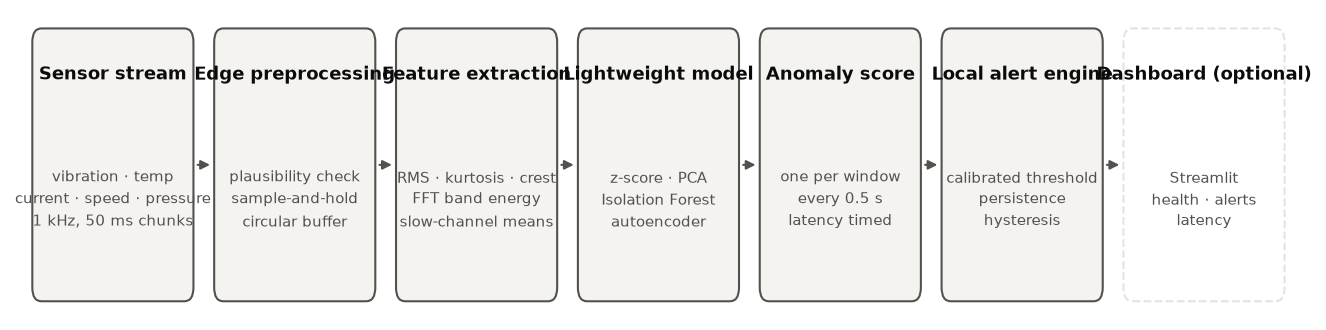
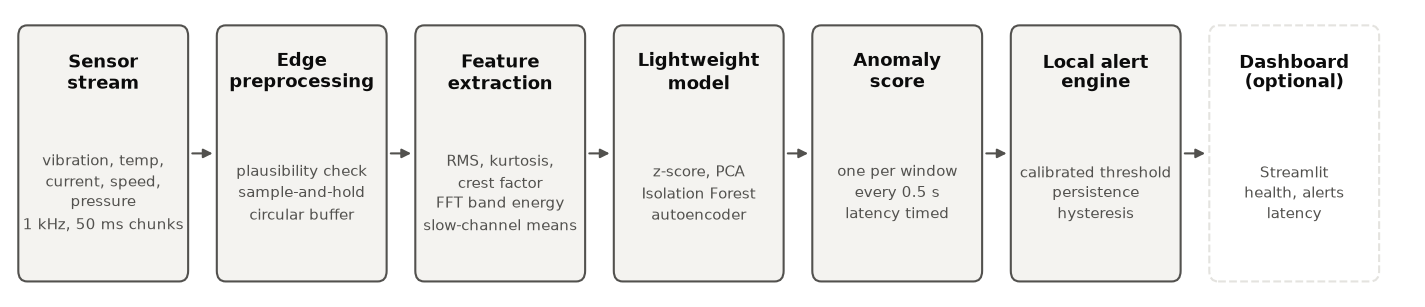
feat: show false alarms in sampling-rate figure and fix figure layouts

Changed region(s): [[0.0, 0.0586, 0.9894, 0.9381], [0.8658, 0.5277, 0.9585, 0.7329]]

diff --git a/scripts/make_figures.py b/scripts/make_figures.py
@@ -23,7 +23,7 @@ sys.path.insert(0, str(Path(__file__).resolve().parents[1]))
 
 from src.benchmarking import simulated_track as st  # noqa: E402
 from src.config import ROOT, load_config  # noqa: E402
-from src.data.simulator import CHANNELS, FaultEvent, simulate  # noqa: E402
+from src.data.simulator import FaultEvent, simulate  # noqa: E402
 
 ASSETS = ROOT / "assets"
 RESULTS = ROOT / "results"
@@ -291,27 +291,36 @@ def fig_tradeoff(bench):
 # ----------------------------------------------------------------------------- sampling rate
 def fig_sampling(sweep):
     rates = [str(r) for r in sweep["rates_hz"]]
-    fig, (a1, a2) = plt.subplots(1, 2, figsize=(11, 3.4))
+    fig, (a1, a2, a3) = plt.subplots(1, 3, figsize=(12, 3.4))
     for name, color in FAMILY.items():
-        rec = [sweep["results"][r][name]["event_recall"] for r in rates]
-        a1.plot(rates, rec, "-o", color=color, lw=2, ms=6, label=LABEL[name])
-    a1.set(title="Event recall vs ADC sampling rate", xlabel="sampling rate [Hz]",
-           ylabel="event recall", ylim=(0, 1.05))
+        res = [sweep["results"][r][name] for r in rates]
+        a1.plot(rates, [r["event_recall"] for r in res], "-o", color=color, lw=2, ms=6,
+                label=LABEL[name])
+        # Z-score and PCA can share values: draw z-score dashed on top so both stay visible.
+        a2.plot(rates, [r["false_alarms"] for r in res], "--o" if name == "zscore" else "-o",
+                color=color, lw=2, ms=6 if name != "zscore" else 4, zorder=3 if name == "zscore" else 2)
+    a1.set(title="Faults detected (recall)", xlabel="sampling rate [Hz]", ylabel="event recall",
+           ylim=(0, 1.05))
     a1.legend(fontsize=7.5, loc="lower right")
+    a2.set(title="False alarms, 5 test runs", xlabel="sampling rate [Hz]", ylabel="count")
+    a2.set_ylim(bottom=0)
     feat = [sweep["results"][r]["pca"]["feature_latency"]["p50_us"] for r in rates]
     ingest = [sweep["results"][r]["pca"]["ingest_ns_per_sample"] * int(r) / 1e3 for r in rates]
-    a2.plot(rates, feat, "-o", color=INK, lw=2, ms=6, label="feature extraction per window")
-    a2.plot(rates, ingest, "-s", color=INK2, lw=2, ms=6, label="ingest per second of signal")
-    a2.set(title="Edge cost vs sampling rate (PCA pipeline)", xlabel="sampling rate [Hz]",
-           ylabel="p50 [µs]")
-    a2.legend(fontsize=7.5)
+    a3.plot(rates, feat, "-o", color=INK, lw=2, ms=6, label="features, per window (p50)")
+    a3.plot(rates, ingest, "-s", color=INK2, lw=2, ms=6, label="ingest, per second of signal (mean)")
+    a3.set(title="Pipeline cost (PCA)", xlabel="sampling rate [Hz]", ylabel="µs")
+    a3.set_ylim(bottom=0)
+    a3.legend(fontsize=7.5, loc="lower right")
+    fig.suptitle("SIMULATED sampling-rate sweep: same window duration, detectors refitted per rate",
+                 x=0.01, ha="left", fontsize=10, fontweight="bold", y=1.03)
     save(fig, "sampling_rate_tradeoff.png")
 
 
 # ----------------------------------------------------------------------------- MetroPT
 def fig_metropt(mb):
     names = ["zscore", "pca", "iforest", "autoencoder"]
-    fig, axes = plt.subplots(len(names), 1, figsize=(11, 6.4), sharex=True)
+    fig, axes = plt.subplots(len(names), 1, figsize=(11, 7.4), sharex=True)
+    fig.subplots_adjust(hspace=0.45)
     for ax, name in zip(axes, names):
         z = np.load(RESULTS / "traces" / f"metropt_{name}.npz")
         t = z["t"] / 86400
@@ -328,13 +337,14 @@ def fig_metropt(mb):
         r = mb["results"][name]
         ax.set_ylim(0, 6)
         ax.set_ylabel(LABEL[name], rotation=0, ha="right", va="center")
-        ax.text(1.0, 0.72, f"{r['event_strict']['n_detected']}/4 reports (chance "
-                f"{r['chance']['chance_mean']:.1f}, p={r['chance']['p_value']:.2f}) · "
-                f"{r['false_alarms_per_day']:.2f} false alarms/day · "
-                f"{100 * r['alarm_time_fraction_healthy']:.0f} % of healthy time in alarm",
-                transform=ax.transAxes, ha="right", fontsize=7.5, color=INK2)
-    axes[0].set_title("MetroPT-3 (REAL compressor data), test period Apr-Aug 2020. Grey = company "
-                      "failure report, red bars = alerts", loc="left")
+        ax.set_title(f"{r['event_strict']['n_detected']}/4 reports (chance "
+                     f"{r['chance']['chance_mean']:.1f}, p = {r['chance']['p_value']:.3f}) · "
+                     f"{r['false_alarms_per_day']:.2f} false alarms/day · "
+                     f"{100 * r['alarm_time_fraction_healthy']:.1f} % of healthy time in alarm",
+                     loc="right", fontsize=7.5, color=INK2, fontweight="normal")
+    fig.suptitle("MetroPT-3 (REAL compressor data), test period Apr-Aug 2020. Grey = company "
+                 "failure report, red bars = alerts, dashed = threshold", x=0.01, ha="left",
+                 fontsize=10, fontweight="bold")
     axes[-1].set_xlabel("days since 2020-04-01")
     save(fig, "metropt_timeline.png")
 
